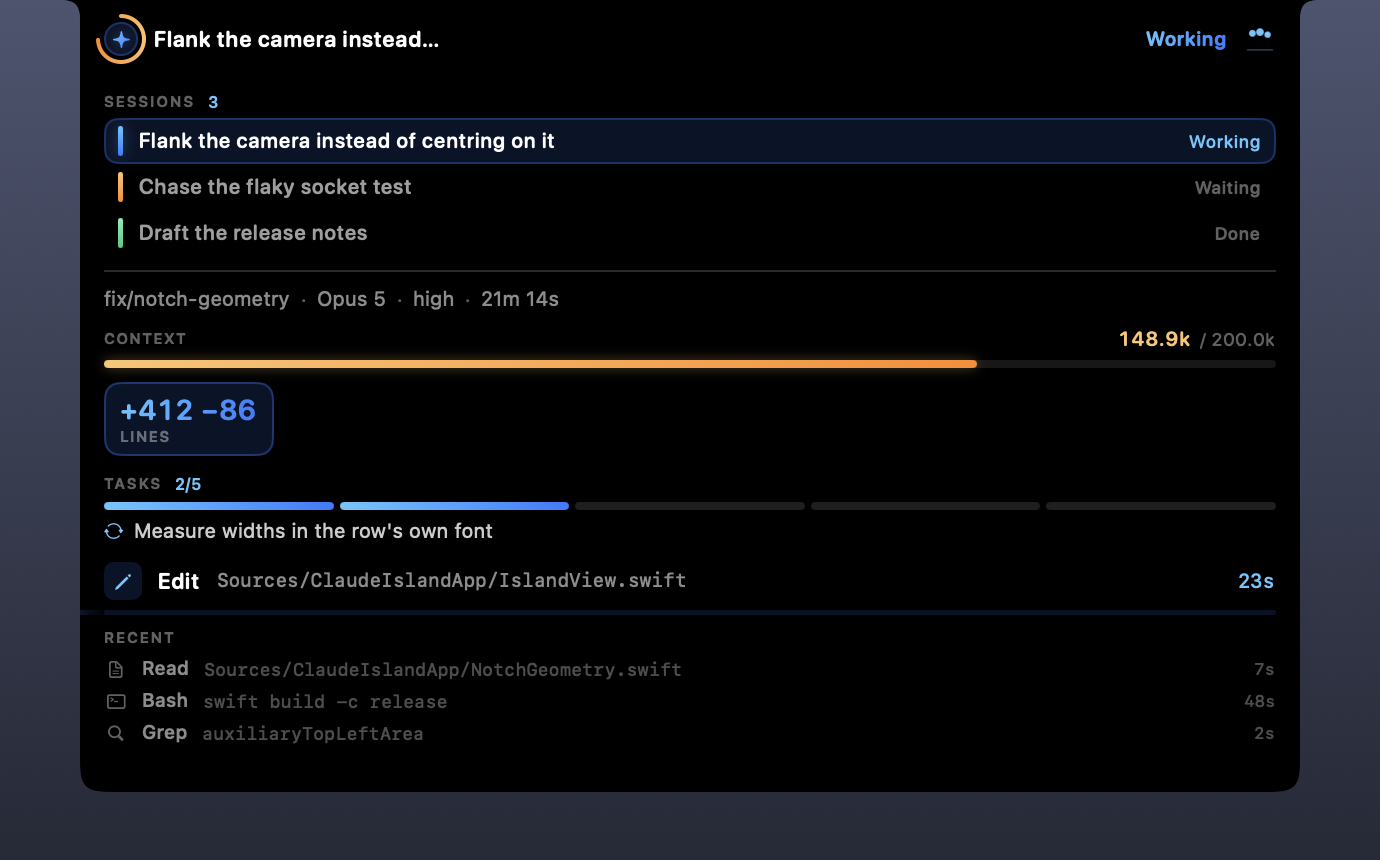
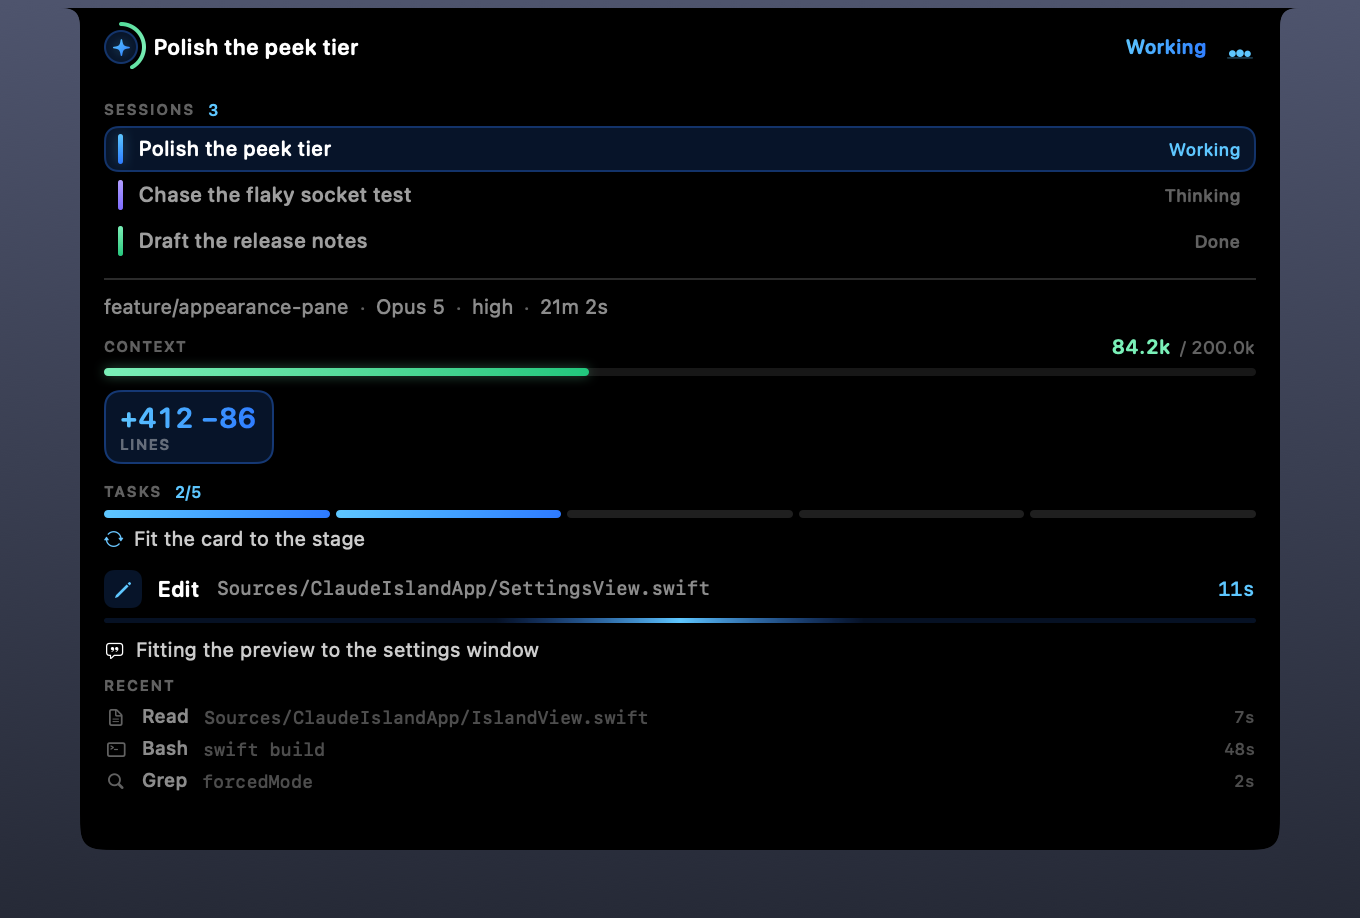
Put the README's pictures and its numbers back in step
The expanded card, the General pane and the Appearance pane were all shot before three releases landed on them: the card had no activity line, General had no "Find the app each session is running in", and Appearance had no "Show the tool trace". Re-shot from the shipping views at the real notch geometry, and from the installed build, whose CFBundleVersion is main's own sha.

The counts had drifted and disagreed with each other besides: the table claimed 287 tests and 177 self-test checks while Verification claimed 277 and 178. Measured here: 318 tests, and 185 checks of which 184 pass and one skips for want of a second display.

Also writes up the activity line, which shipped with no mention here at all; adds the Advanced pane's "Stay above other notch apps" to the sidebar map, which had listed three of its four rows; and names the licence.

diff --git a/README.md b/README.md
@@ -74,7 +74,7 @@ of the event pipeline — whether the socket is listening, how long ago the last
 hook event arrived, how many sessions are tracked — which is the first place to
 look if the island never appears at all.
 
-![The General pane: the event pipeline strip, Status, Show the HUD, and Launch at login](docs/images/settings-general.png)
+![The General pane: the event pipeline strip reading Receiving hook events, then Status, Show the HUD, Launch at login, and Find the app each session is running in](docs/images/settings-general.png)
 
 ### Why it builds from source rather than shipping a binary
 
@@ -101,7 +101,8 @@ Appearance  A live preview of the island, posed at each tier
 Sounds      Play sounds · Stay quiet while a terminal is frontmost · a sound per
             cue, or None to skip that one
 Hooks       Install / update / remove, Copy Hook JSON
-Advanced    Debug log · Pin the HUD to · Reveal Support Folder
+Advanced    Stay above other notch apps · Debug log · Pin the HUD to
+            · Reveal Support Folder
 ```
 
 **Appearance** poses the real island — the same shape, content views and view
@@ -112,7 +113,7 @@ and anything else previews the pill, the Peek tier is what the hover delay
 stands between the pointer and, and the tool trace is a section of the Expanded
 card that appears and disappears under the switch.
 
-![The Appearance pane showing the expanded card posed over invented sessions, with tier buttons for Compact, Alert, Peek and Expanded, and the Show it on and Open on hover after rows below](docs/images/settings-appearance.png)
+![The Appearance pane showing the expanded card posed over invented sessions, with tier buttons for Compact, Alert, Peek and Expanded, and the Show it on, Open on hover after and Show the tool trace rows below](docs/images/settings-appearance.png)
 
 **Show it on** picks the display. The default follows the menu bar, which on a
 notched Mac is where the cutout is; any other display gets the pill instead —
@@ -470,8 +471,8 @@ animations moved.
 | Compact, animating | 0.2% |
 | Alert, pulsing | 0.33% |
 | Hook client, no listener | 2.49 ms median / 4.67 ms p95 |
-| Tests | 287 passing |
-| Self-test | 177 checks passing |
+| Tests | 318 passing |
+| Self-test | 184 checks passing |
 
 ## Visual language
 
@@ -544,7 +545,26 @@ quiet while a terminal is frontmost* from "any terminal" to "this session's own
 app". Upgrading from a build before this setting existed turns the row off,
 because an absent key reads as off.
 
-![The expanded card: three sessions with coloured rails and their states, then the selected session's detail and a list of recent tool calls](docs/images/expanded.png)
+Under the call in flight sits **one line on what the session is doing**. NOW
+names the call; this says what it is for — `Bash  git rev-list --count
+origin/main..main` is a fact about this second rather than an answer. Two
+producers feed the one field: where Claude Code keeps its own classifier line
+for a background job, that line is lifted verbatim out of `~/.claude/jobs` — the
+same string its agents view shows — and everywhere else, which is every ordinary
+terminal session, it is derived from the transcript in the order Claude Code's
+own cheap tier uses: an end-of-turn `result:` marker, else the last prose over
+eight characters, else a phrase for the call in flight. A session that has not
+spoken yet draws no row at all rather than an empty one, and the card's height
+gives that space back with it.
+
+Expanded only, and one line, tail-truncated. The compact tiers are sized to
+their own text and centred on the camera, so a variable-length prose row there
+would reflow the whole HUD on every tool call; and cutting it short is the
+deliberate exception to the card's rule against abbreviating a label, because a
+sentence's opening clause carries its sense where half a branch name identifies
+nothing.
+
+![The expanded card: three sessions with coloured rails and their states, then the selected session's detail — branch, model, context, lines, plan, the call in flight and a line of prose saying what the session is doing — ending in a list of recent tool calls](docs/images/expanded.png)
 
 The card's **width** is sized across all sessions, not the selected one. Sized
 from the selection it followed that session's name length, and because the shape
@@ -585,7 +605,7 @@ state.
 ## Verification
 
 ```bash
-swift build && swift run ClaudeIslandTests      # 277 tests
+swift build && swift run ClaudeIslandTests      # 318 tests
 ./dist/.../ClaudeIsland --replay Fixtures/basic-session.jsonl
 ./dist/.../ClaudeIsland --selftest              # focus + click-through
 ./dist/.../ClaudeIsland --probe-screens         # notch geometry per display
@@ -603,7 +623,7 @@ failures, two concurrent sessions, subagents, deliberately hostile input
 (malformed lines, unknown future events, embedded secrets), and process
 ancestry surviving envelopes that omit it.
 
-`--selftest` is a 178-check harness for what unit tests cannot exercise: that
+`--selftest` is a 185-check harness for what unit tests cannot exercise: that
 the panel never takes focus, that clicks land where they should, that a settings
 change reaches both disk and the running HUD, and dozens of on-screen layout and
 geometry checks besides. Click-through is verified
@@ -759,9 +779,13 @@ docs/images/                  the screenshots above
 docs/superpowers/             design documents and plans
 ```
 
-Every island shot above is the shipping views, drawn by the real panel at the
-real notch geometry, posed over invented sessions under a plainly fake home — the
-way the Appearance pane poses its own preview, and for the same reason: a
-screenshot of a live session would put someone else's directory names in front of
-you. The backdrop stands in for the desktop; the cutout is painted black because
-in life those pixels sit behind the bezel.
+Every island shot above is the shipping views, drawn at the real notch geometry,
+posed over invented sessions under a plainly fake home — the way the Appearance
+pane poses its own preview, and for the same reason: a screenshot of a live
+session would put someone else's directory names in front of you. The backdrop
+stands in for the desktop; the cutout is painted black because in life those
+pixels sit behind the bezel.
+
+## License
+
+Apache 2.0 — see [LICENSE](LICENSE).
